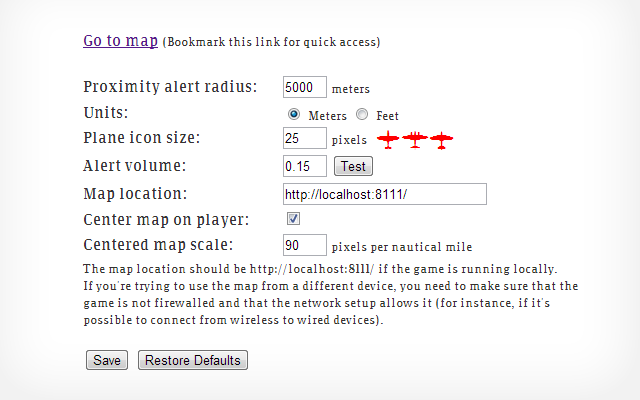
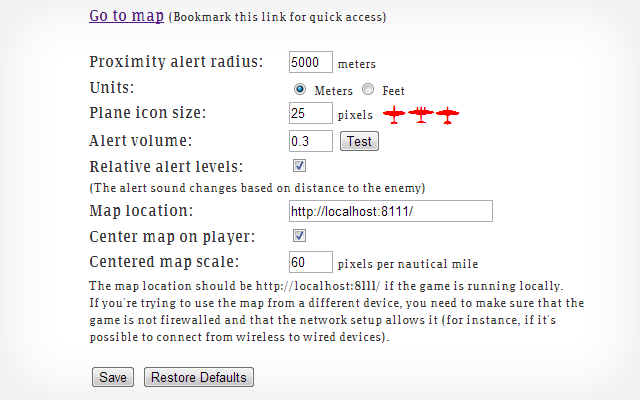
options screenshot, adjust sounds

diff --git a/scripts/wtm.js b/scripts/wtm.js
@@ -49,9 +49,13 @@ var WTM = {
         if (rel) {
             window.setTimeout(function() {
                 var audio = new Audio(url);
-                audio.volume = volume * level * 0.05;
+                var echo_volume = Math.max(0, volume  * level * 0.05 - Math.max(0, 0.15 - level * 0.05));
+                if (!echo_volume) {
+                    return;
+                }
+                audio.volume = echo_volume ;
                 audio.play();
-            }, (30 - level) * 2);
+            }, 40 - level);
         }
     },
     conversion: {
